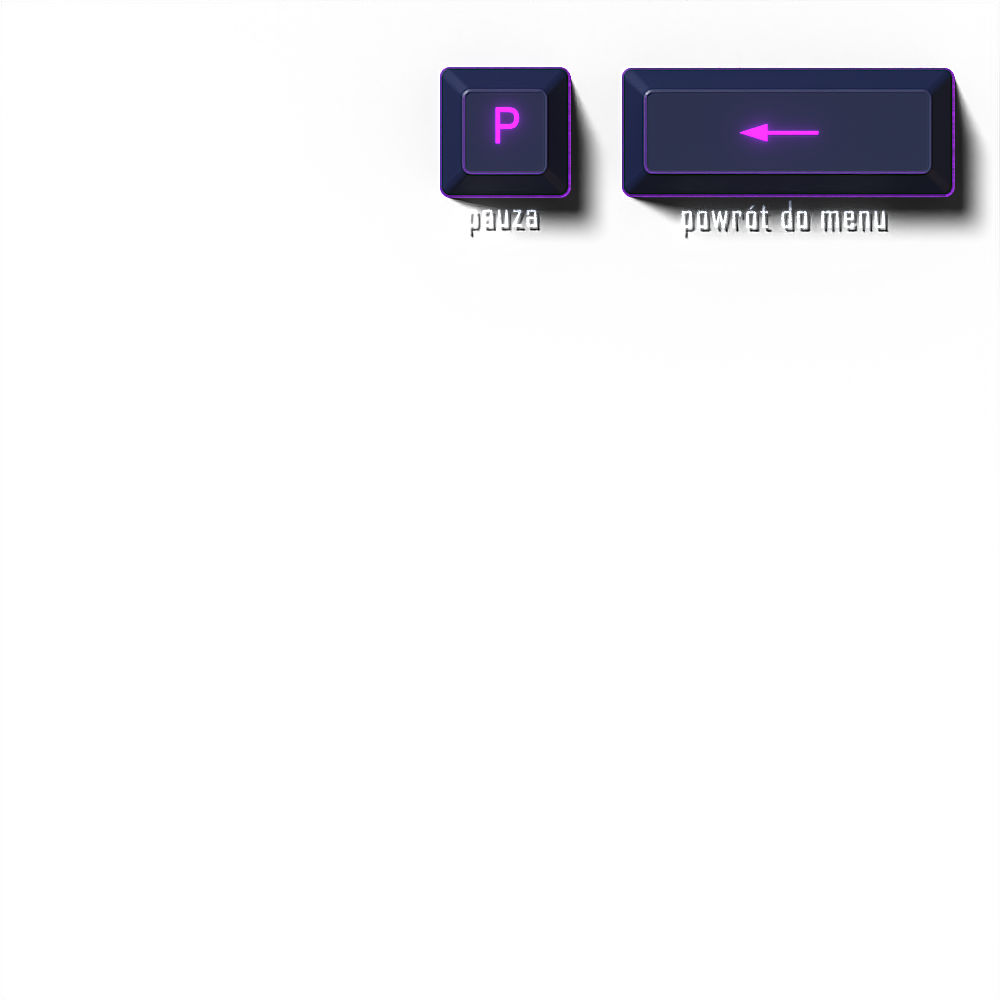
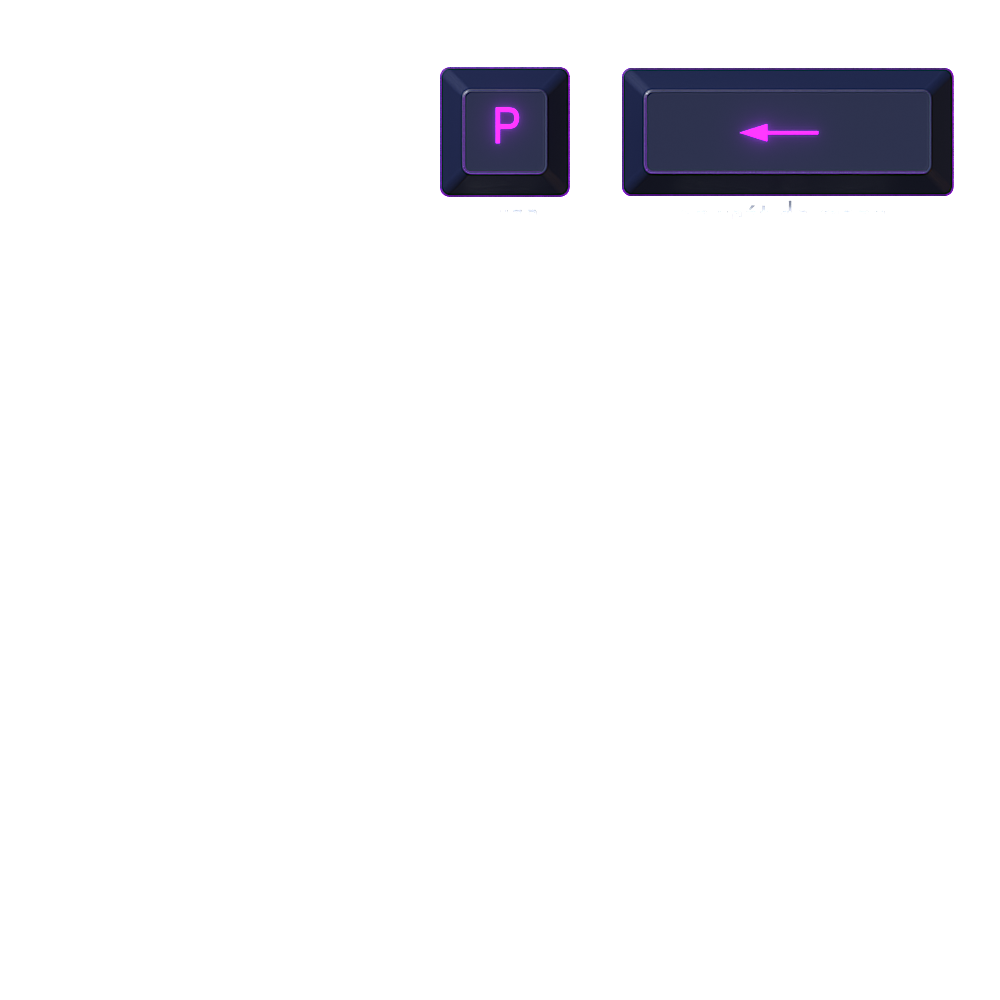
Dodano jaśniejsze tło i dodano nowe wersje obrazków z panelem kontroli

Changed region(s): [[0.434, 0.093, 0.992, 0.248]]

diff --git a/css/main.css b/css/main.css
@@ -13,7 +13,7 @@
     text-align: center;
     justify-content: space-around;
     color: aliceblue;
-    background-image: url("../images/board.png");
+    background-image: url("../images/board2.png");
     background-position: center;
     background-size: contain;
     background-repeat: no-repeat;
